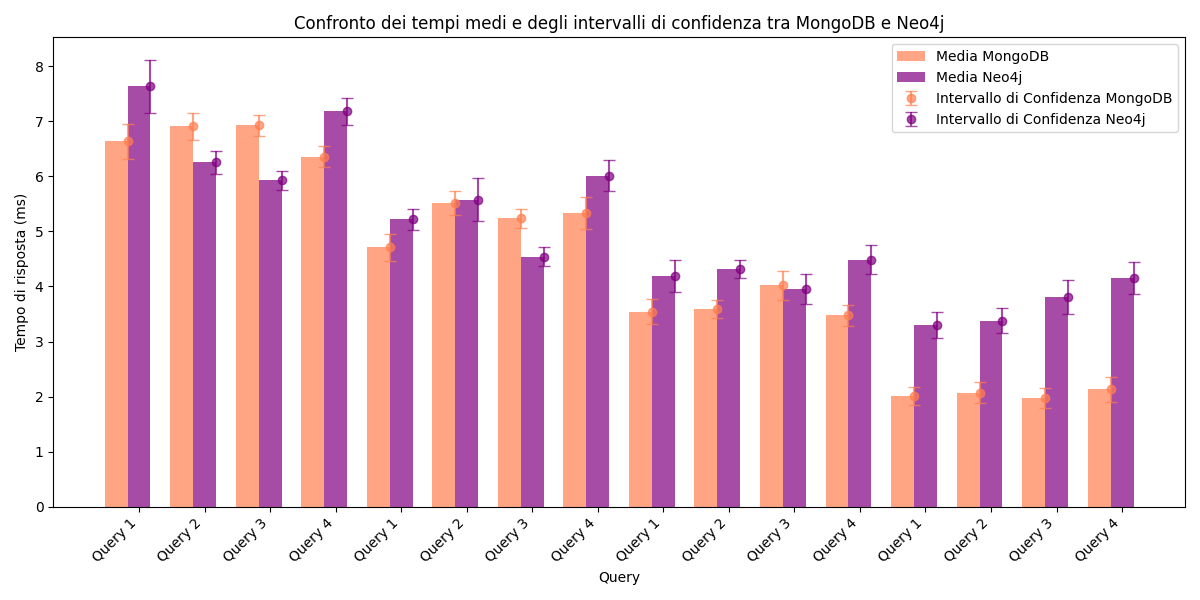
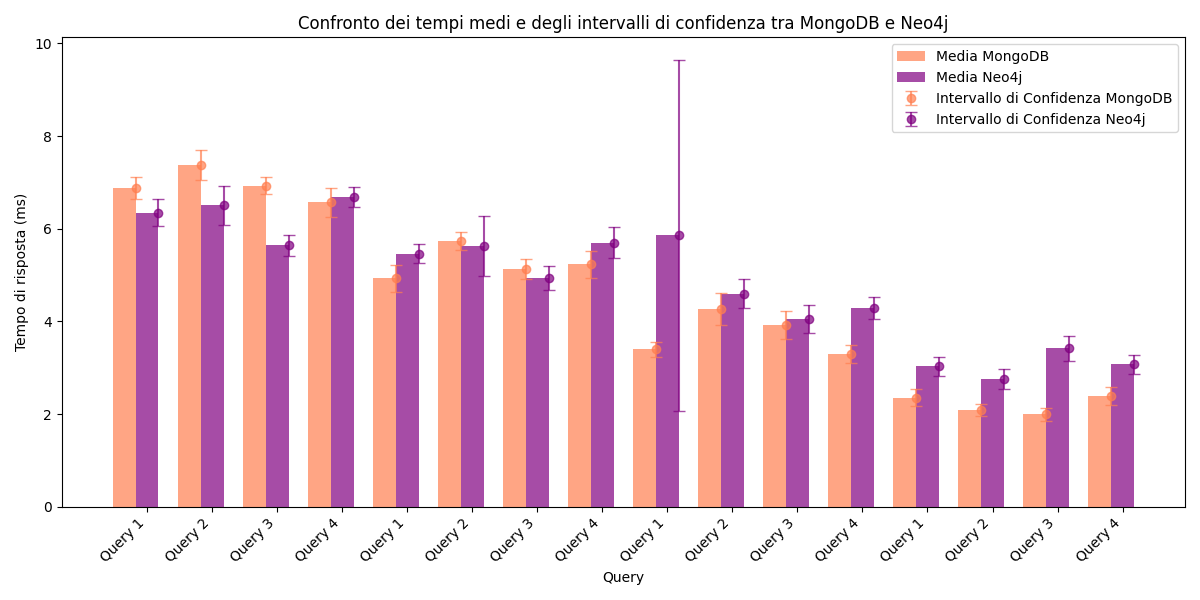
First Commit

diff --git a/Neo4j/QueryNeo4j.py b/Neo4j/QueryNeo4j.py
@@ -16,24 +16,24 @@ percentuali = ['100', '75', '50', '25']
 def calculate_confidence_interval(data):
     mean_val = np.mean(data)
     std_dev = np.std(data)
-    margin_of_error = 1.96 * (std_dev / np.sqrt(len(data)))  # 1.96 is the z-score for a 95% confidence interval
+    margin_of_error = 1.96 * (std_dev / np.sqrt(len(data)))  # 1.96 è lo z-score per avere l'intervallo di confidenza al 95%
     return mean_val, margin_of_error
 
 
 for percentuale in percentuali:
-    db_name = f"dataset{percentuale}"  # Cambia con il nome del tuo database
+    db_name = f"dataset{percentuale}"
     graph = Graph(f"bolt://localhost:7687/{db_name}", user="neo4j", password="12345678", name=db_name)
 
     print(f"\nAnalisi per la percentuale: {percentuale}\n")
 
-    selected_country = 'Norway'  # Cambia con il paese desiderato
-    selected_username = 'Jennifer Rodgers'  # Cambia con l'utente desiderato
-    dataset_name = f"dataset{percentuale}"  # Nome del dataset specifico
+    selected_country = 'Italy'
+    selected_username = 'Heather James'
+    dataset_name = f"dataset{percentuale}"
 
     # Calcolo il tempo medio della prima esecuzione per la prima query
     start_time = time.time()
     result = graph.run("MATCH (t:transazioni {country: $country}) RETURN count(t) as num_transactions", country=selected_country)
-    record = result.next()  # Ottieni il record restituito dalla query
+    record = result.next()  # Ottengo il record restituito dalla query
     end_time = time.time()
     tempo_prima_esecuzione = round((end_time - start_time) * 1000, 2)
 
@@ -46,7 +46,7 @@ for percentuale in percentuali:
     for _ in range(30):
         start_time = time.time()
         result = graph.run("MATCH (t:transazioni {country: $country}) RETURN count(t) as num_transactions", country=selected_country)
-        record = result.next()  # Ottieni il record restituito dalla query
+        record = result.next()  # Ottengo il record restituito dalla query
         end_time = time.time()
         tempo_esecuzione = round((end_time - start_time) * 1000, 2)
 
@@ -60,7 +60,7 @@ for percentuale in percentuali:
     # Calcolo il tempo medio della prima esecuzione per la seconda query
     start_time = time.time()
     result = graph.run("MATCH (t:transazioni {country: $country, status: 'sospetta'}) RETURN sum(t.amount) as total_amount", country=selected_country)
-    record = result.next()  # Ottieni il record restituito dalla query
+    record = result.next()  # Ottengo il record restituito dalla query
     end_time = time.time()
     tempo_prima_esecuzione = round((end_time - start_time) * 1000, 2)
 
@@ -73,7 +73,7 @@ for percentuale in percentuali:
     for _ in range(30):
         start_time = time.time()
         result = graph.run("MATCH (t:transazioni {country: $country, status: 'sospetta'}) RETURN sum(t.amount) as total_amount", country=selected_country)
-        record = result.next()  # Ottieni il record restituito dalla query
+        record = result.next()  # Ottengo il record restituito dalla query
         end_time = time.time()
         tempo_esecuzione = round((end_time - start_time) * 1000, 2)
 
@@ -87,7 +87,7 @@ for percentuale in percentuali:
     # Calcolo il tempo medio della prima esecuzione per la terza query
     start_time = time.time()
     result = graph.run("MATCH (t:transazioni {subject: $username, status: 'sospetta'}) RETURN count(t) as num_transactions", username=selected_username)
-    record = result.next()  # Ottieni il record restituito dalla query
+    record = result.next()  # Ottengo il record restituito dalla query
     end_time = time.time()
     tempo_prima_esecuzione = round((end_time - start_time) * 1000, 2)
 
@@ -100,7 +100,7 @@ for percentuale in percentuali:
     for _ in range(30):
         start_time = time.time()
         result = graph.run("MATCH (t:transazioni {subject: $username, status: 'sospetta'}) RETURN count(t) as num_transactions", username=selected_username)
-        record = result.next()  # Ottieni il record restituito dalla query
+        record = result.next()  # Ottengo il record restituito dalla query
         end_time = time.time()
         tempo_esecuzione = round((end_time - start_time) * 1000, 2)
 
@@ -114,7 +114,7 @@ for percentuale in percentuali:
     # Calcolo il tempo medio della prima esecuzione per la quarta query
     start_time = time.time()
     result = graph.run("MATCH (t:transazioni {status: 'sospetta'}) RETURN count(t) as num_transactions")
-    record = result.next()  # Ottieni il record restituito dalla query
+    record = result.next()  # Ottengo il record restituito dalla query
     end_time = time.time()
     tempo_prima_esecuzione = round((end_time - start_time) * 1000, 2)
 
@@ -127,7 +127,7 @@ for percentuale in percentuali:
     for _ in range(30):
         start_time = time.time()
         result = graph.run("MATCH (t:transazioni {status: 'sospetta'}) RETURN count(t) as num_transactions")
-        record = result.next()  # Ottieni il record restituito dalla query
+        record = result.next()  # Ottengo il record restituito dalla query
         end_time = time.time()
         tempo_esecuzione = round((end_time - start_time) * 1000, 2)
 
@@ -138,24 +138,24 @@ for percentuale in percentuali:
     mean, interval = calculate_confidence_interval(tempi_successivi)
     tempi_di_risposta_media_intervallo[f"{dataset_name} - Query 4"] = (tempo_medio_successive, mean, interval)
 
-    print("-" * 70)  # Separatore tra le diverse percentuali
+    print("-" * 70)
 
-# Scrivi i tempi di risposta medi della prima esecuzione in un file CSV
+# Scrivo i tempi di risposta medi della prima esecuzione in un file CSV
 with open('tempi_di_risposta_prima_esecuzione.csv', mode='w', newline='') as file:
     writer = csv.writer(file)
     writer.writerow(['Dataset', 'Query', 'Millisecondi'])
 
-    # Scrivi i dati
+    # Scrivo i dati
     for query, tempo_prima_esecuzione in tempi_di_risposta_prima_esecuzione.items():
         dataset, query = query.split(' - ')
         writer.writerow([dataset, query, tempo_prima_esecuzione])
 
-# Scrivi i tempi di risposta medi delle 30 esecuzioni successive in un file CSV
+# Scrivo i tempi di risposta medi delle 30 esecuzioni successive in un file CSV
 with open('tempi_di_risposta_media_30.csv', mode='w', newline='') as file:
     writer = csv.writer(file)
     writer.writerow(['Dataset', 'Query', 'Millisecondi', 'Media', 'Intervallo di Confidenza'])
 
-    # Scrivi i dati
+    # Scrivo i dati
     for query, (tempo_medio_successive, mean, interval) in tempi_di_risposta_media_intervallo.items():
         dataset, query = query.split(' - ')
         writer.writerow([dataset, query, tempo_medio_successive, round(mean, 2), round(interval, 2)])

diff --git a/Progetto Database 2/QueryMongoDB.py b/Progetto Database 2/QueryMongoDB.py
@@ -31,7 +31,7 @@ tempi_di_risposta_media = {}
 for percentuale in percentuali:
     print(f"\nAnalisi per la percentuale: {percentuale}\n")
 
-    selected_country = 'Italy'  # Cambia con il paese desiderato
+    selected_country = 'Italy'
 
     # Calcolo il tempo medio della prima esecuzione per la prima query
     start_time = time.time()
@@ -39,7 +39,7 @@ for percentuale in percentuali:
     end_time = time.time()
     tempo_prima_esecuzione = round((end_time - start_time) * 1000, 2)
     print(f"Numero totale di transazioni in {selected_country}: {count}")
-    print(f"Tempo di risposta (prima esecuzione - Query 1): {tempo_prima_esecuzione} ms\n")
+    print(f"Tempo di risposta (prima esecuzione - Query 1): {tempo_prima_esecuzione} ms")
 
     # Qui aggiungo il tempo di risposta medio della prima esecuzione al dizionario per la prima query
     tempi_di_risposta_prima_esecuzione[f"{percentuale} - Query 1"] = tempo_prima_esecuzione
@@ -60,7 +60,7 @@ for percentuale in percentuali:
 
     tempi_di_risposta_media[f"{percentuale} - Query 1"] = (tempo_medio_successive, mean, margin_of_error)
 
-    selected_country = 'Italy'  # Cambia con il paese desiderato
+    selected_country = 'Italy'
 
     # Calcolo il tempo medio della prima esecuzione per la seconda query
     start_time = time.time()
@@ -73,7 +73,7 @@ for percentuale in percentuali:
     total_amount = result[0]['total_amount'] if result else 0
     tempo_prima_esecuzione = round((end_time - start_time) * 1000, 2)
     print(f"Totale degli importi delle transazioni fraudolente in {selected_country}: {total_amount}")
-    print(f"Tempo di risposta (prima esecuzione - Query 2): {tempo_prima_esecuzione} ms\n")
+    print(f"Tempo di risposta (prima esecuzione - Query 2): {tempo_prima_esecuzione} ms")
 
     tempi_di_risposta_prima_esecuzione[f"{percentuale} - Query 2"] = tempo_prima_esecuzione
 
@@ -99,9 +99,9 @@ for percentuale in percentuali:
 
     tempi_di_risposta_media[f"{percentuale} - Query 2"] = (tempo_medio_successive, mean_value, margin_of_error)
 
-    selected_username = 'Jennifer Rodgers'  # Qui bisogna cambiare il nome dell'utente desiderato
+    selected_username = 'Heather James'
 
-    # Calcola il tempo medio della prima esecuzione per la terza query
+    # Calcolo il tempo medio della prima esecuzione per la terza query
     start_time = time.time()
     pipeline = [
         {'$match': {'subject': selected_username, 'status': 'sospetta'}},
@@ -112,7 +112,7 @@ for percentuale in percentuali:
     fraudulent_transactions = result[0]['fraudulent_transactions'] if result else 0
     tempo_prima_esecuzione = round((end_time - start_time) * 1000, 2)
     print(f"Numero totale di transazioni fraudolente per l'utente {selected_username}: {fraudulent_transactions}")
-    print(f"Tempo di risposta (prima esecuzione - Query 3): {tempo_prima_esecuzione} ms\n")
+    print(f"Tempo di risposta (prima esecuzione - Query 3): {tempo_prima_esecuzione} ms")
 
     # Aggiungo il tempo di risposta medio della prima esecuzione al dizionario per la terza query
     tempi_di_risposta_prima_esecuzione[f"{percentuale} - Query 3"] = tempo_prima_esecuzione
@@ -144,12 +144,12 @@ for percentuale in percentuali:
     end_time = time.time()
     tempo_prima_esecuzione = round((end_time - start_time) * 1000, 2)
     print(f"Numero totale di transazioni fraudolente nel dataset {percentuale}: {count}")
-    print(f"Tempo di risposta (prima esecuzione - Query 4): {tempo_prima_esecuzione} ms\n")
+    print(f"Tempo di risposta (prima esecuzione - Query 4): {tempo_prima_esecuzione} ms")
 
-    # Aggiungi il tempo di risposta medio della prima esecuzione al dizionario per la quarta query
+    # Aggiungo il tempo di risposta medio della prima esecuzione al dizionario per la quarta query
     tempi_di_risposta_prima_esecuzione[f"{percentuale} - Query 4"] = tempo_prima_esecuzione
 
-    # Calcola il tempo medio delle 30 esecuzioni successive per la quarta query
+    # Calcolo il tempo medio delle 30 esecuzioni successive per la quarta query
     tempi_successivi = []
     for _ in range(30):
         start_time = time.time()
@@ -163,27 +163,27 @@ for percentuale in percentuali:
     print(f"Tempo medio di 30 esecuzioni successive (Query 4): {tempo_medio_successive} ms")
     print(f"Intervallo di Confidenza (Query 4): [{round(mean_value - margin_of_error, 2)}, {round(mean_value + margin_of_error, 2)}] ms\n")
 
-    # Aggiungi il tempo di risposta medio della prima esecuzione al dizionario per la quarta query
+    # Aggiungo il tempo di risposta medio della prima esecuzione al dizionario per la quarta query
     tempi_di_risposta_media[f"{percentuale} - Query 4"] = (tempo_medio_successive, mean_value, margin_of_error)
 
-    print("-" * 60)  # Separatore tra le diverse percentuali
+    print("-" * 70)  # Separatore tra le diverse percentuali
 
-# Scrivi i tempi di risposta medi della prima esecuzione in un file CSV
+# Scrivo i tempi di risposta medi della prima esecuzione in un file CSV
 with open('tempi_di_risposta_prima_esecuzione_MDB.csv', mode='w', newline='') as file:
     writer = csv.writer(file)
     writer.writerow(['Dataset', 'Query', 'Millisecondi'])
 
-    # Scrivi i dati
+    # Scrivo i dati
     for query, tempo_prima_esecuzione in tempi_di_risposta_prima_esecuzione.items():
         dataset, query = query.split(' - ')
         writer.writerow([dataset, query, tempo_prima_esecuzione])
 
-# Scrivi i tempi di risposta medi delle 30 esecuzioni successive in un file CSV
+# Scrivo i tempi di risposta medi delle 30 esecuzioni successive in un file CSV
 with open('tempi_di_risposta_media_30_MDB.csv', mode='w', newline='') as file:
     writer = csv.writer(file)
     writer.writerow(['Dataset', 'Query', 'Millisecondi', 'Media', 'Intervallo di Confidenza'])
 
-    # Scrivi i dati
+    # Scrivo i dati
     for query, (tempo_medio_successive, mean_value, margin_of_error) in tempi_di_risposta_media.items():
         dataset, query = query.split(' - ')
         writer.writerow([dataset, query, tempo_medio_successive, round(mean_value, 2), round(margin_of_error, 2)])

diff --git a/Progetto Database 2/Istogramma.py b/Progetto Database 2/Istogramma.py
@@ -1,20 +1,20 @@
 import matplotlib.pyplot as plt
 import pandas as pd
 
-# Leggi i dati dai file CSV
+# Vado a leggere i dati dai file CSV
 mdb_prima_esecuzione = pd.read_csv("tempi_di_risposta_prima_esecuzione_MDB.csv")
 mdb_media_30 = pd.read_csv("tempi_di_risposta_media_30_MDB.csv")
 neo4j_prima_esecuzione = pd.read_csv("C:\\Users\\lucac\\PycharmProjects\\pythonProject\\Neo4j\\tempi_di_risposta_prima_esecuzione.csv")
 neo4j_media_30 = pd.read_csv("C:\\Users\\lucac\\PycharmProjects\\pythonProject\\Neo4j\\tempi_di_risposta_media_30.csv")
 
-# Prendi i dati per il confronto della prima esecuzione
+# Prendo i dati per il confronto della prima esecuzione
 mdb_prima_esecuzione_queries = mdb_prima_esecuzione['Query']
 mdb_prima_esecuzione_tempi = mdb_prima_esecuzione['Millisecondi']
 
 neo4j_prima_esecuzione_queries = neo4j_prima_esecuzione['Query']
 neo4j_prima_esecuzione_tempi = neo4j_prima_esecuzione['Millisecondi']
 
-# Prendi i dati per il confronto dei tempi medi e degli intervalli di confidenza
+# Prendo i dati per il confronto dei tempi medi e degli intervalli di confidenza
 mdb_media_30_queries = mdb_media_30['Query']
 mdb_media_30_tempi = mdb_media_30['Media']
 mdb_media_30_intervallo = mdb_media_30['Intervallo di Confidenza']
@@ -53,7 +53,7 @@ index = range(len(mdb_media_30_queries))
 plt.bar(index, mdb_media_30_tempi, bar_width, label='Media MongoDB', alpha=0.7, color=colore_mdb)
 plt.bar([i + bar_width for i in index], neo4j_media_30_tempi, bar_width, label='Media Neo4j', alpha=0.7, color=colore_neo4j)
 
-# Aggiungi gli intervalli di confidenza con i pallini
+# Aggiungo gli intervalli di confidenza con i pallini
 plt.errorbar(
     [i + bar_width / 2 for i in index],
     mdb_media_30_tempi,

diff --git a/Neo4j/Dataset_Neo4j.py b/Neo4j/Dataset_Neo4j.py
@@ -1,19 +1,19 @@
 import pandas as pd
 
-# Carica il dataset completo da dataset_frodi_100.csv
+# Carico il dataset completo da dataset_frodi_100.csv
 df_100 = pd.read_csv('dataset_frodi_100.csv')
 
-# Calcola il numero di righe da includere nei nuovi dataset
+# Calcolo quello che è il numero di righe da includere nei nuovi dataset
 num_rows_75 = int(len(df_100) * 0.75)
 num_rows_50 = int(len(df_100) * 0.50)
 num_rows_25 = int(len(df_100) * 0.25)
 
-# Esegui il campionamento per creare i nuovi dataset
+# Eseguo il campionamento per creare i nuovi dataset
 df_75 = df_100.sample(n=num_rows_75, random_state=1)
 df_50 = df_100.sample(n=num_rows_50, random_state=2)
 df_25 = df_100.sample(n=num_rows_25, random_state=3)
 
-# Salva i nuovi dataset in file CSV
+# Momento salvataggio
 df_75.to_csv('dataset_frodi_75.csv', index=False)
 df_50.to_csv('dataset_frodi_50.csv', index=False)
 df_25.to_csv('dataset_frodi_25.csv', index=False)

diff --git a/Progetto Database 2/Dataset.py b/Progetto Database 2/Dataset.py
@@ -26,7 +26,7 @@ with open('dataset_frodi.csv', 'w', newline='') as csvfile:
         transaction_type = random.choice(['acquisto', 'prelievo', 'trasferimento'])
         subject = fake.name()
         description = fake.sentence()
-        country = fake.country()  # Genera una nazione casuale
+        country = fake.country()  # vado a una nazione casuale
 
         # Determina se è un caso di frode
         is_fraud = country in european_countries
@@ -40,7 +40,7 @@ with open('dataset_frodi.csv', 'w', newline='') as csvfile:
             'subject': subject,
             'description': description,
             'status': status,
-            'country': country  # Includi il campo "country" con il valore casuale
+            'country': country
         })
 
 print("File CSV 'dataset_frodi.csv' creato con successo.")

diff --git a/Neo4j/Trasferimento_Dataset_N4j.py b/Neo4j/Trasferimento_Dataset_N4j.py
@@ -29,10 +29,10 @@ for data_type in data_types:
         # Percorso completo al file CSV
         csv_path = os.path.join(script_directory, csv_filename)
 
-        # Leggi i dati dal file CSV utilizzando pandas
+        # Leggo i dati dal file CSV utilizzando pandas
         data = pd.read_csv(csv_path)
 
-        # Inserisci i dati nel grafo
+        # Inserisco i dati nel grafo
         for index, row in data.iterrows():
             transaction_id = row['transaction_id']
             timestamp = row['timestamp']
